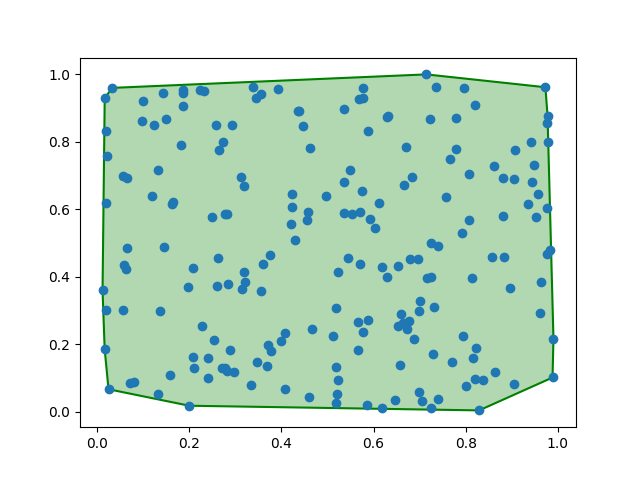
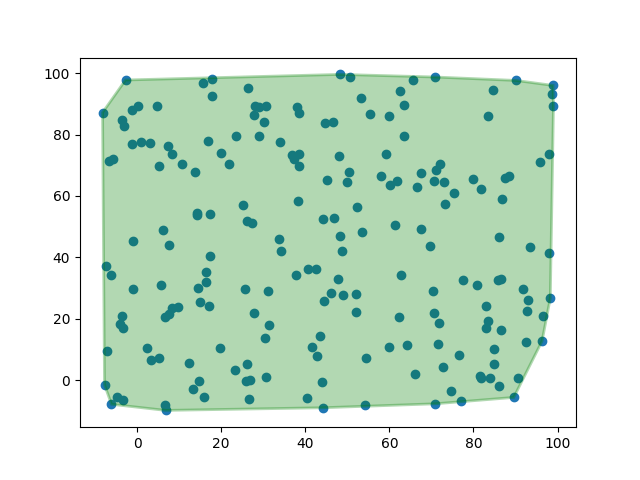
Fixed bug handling colinear points

diff --git a/hw6/src/convex_hull_2d.py b/hw6/src/convex_hull_2d.py
@@ -1,19 +1,21 @@
 import os
 import numpy as np
-import matplotlib.pyplot as plt
 from enum import Enum
+from tqdm import tqdm
+import matplotlib.pyplot as plt
 
 def plot_convex_hull(points: np.array, hull: np.array, ax: plt.Axes = None):
     if ax is None:
         fig, ax = plt.subplots()
-    ax.plot(hull[:, 0], hull[:, 1], c='g', zorder=0)
-    ax.fill(hull[:, 0], hull[:, 1], 'g', alpha=0.3, zorder=0)
-    ax.scatter(points[:, 0], points[:, 1])
+    ax.scatter(points[:, 0], points[:, 1], zorder=0)
+    # ax.plot(hull[:, 0], hull[:, 1], c='g', zorder=0)
+    ax.fill(hull[:, 0], hull[:, 1], 'g', alpha=0.3, zorder=1, edgecolor='g', linewidth=2)
     return ax
 
 def generate_random_points(n: int, seed: int = 0):
     np.random.seed(seed)
-    return np.random.rand(n, 2)
+    points = np.random.uniform(low=-10, high=100, size=(n,2))
+    return points
 
 class Orientation(Enum):
     COLINEAR = 0
@@ -59,9 +61,9 @@ def convex_hull_2D(points: np.array) -> np.array:
                 hull_stack.pop()
             elif get_triplet_orientation(p1, p2, p3) is Orientation.COUNTER_CLOCKWISE:
                 break
+            else:
+                break
         hull_stack.append(p1)
-    # Close the polygon
-    hull_stack.append(sorted_points[0])
     hull = np.array(hull_stack)
     return hull
 
@@ -70,9 +72,9 @@ if __name__ == "__main__":
     OUT_DIR = os.path.join('output', 'convex_hull')
     os.makedirs(OUT_DIR, exist_ok=True)
 
-    n_cases = [5, 10, 20,  100, 200, 1000]
-    for n in n_cases:
-        points = generate_random_points(n)
+    n_cases = [5, 27, 31,  143, 200, 1000, 5000]
+    for n in tqdm(n_cases, desc="Generating convex hulls"):
+        points = generate_random_points(n, seed = 56)
         hull = convex_hull_2D(points)
         plot_convex_hull(points, hull)
         file_out = os.path.join(OUT_DIR, f'convex_hull_n_points{n}.png')
